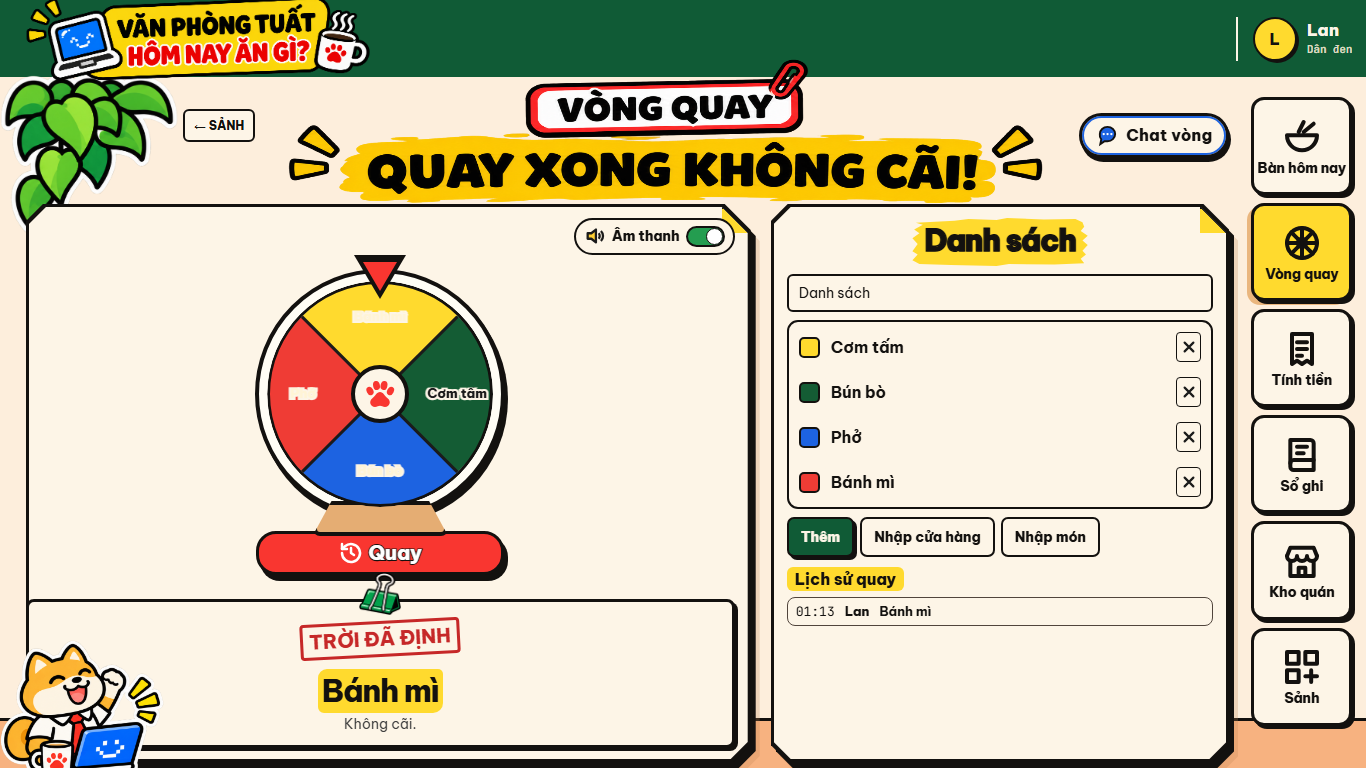
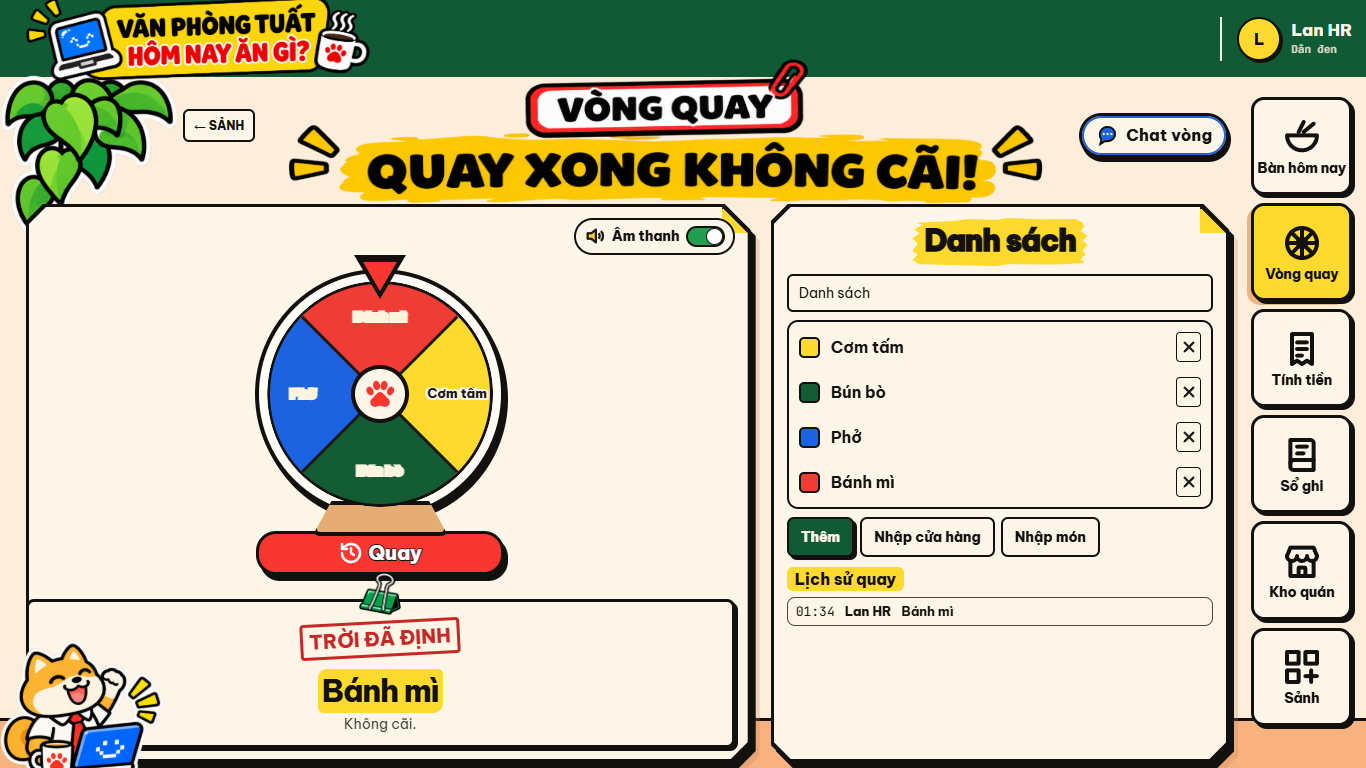
Align wheel colors with labels at the top.

diff --git a/app/tests/unit/wheel-list.test.ts b/app/tests/unit/wheel-list.test.ts
@@ -1,6 +1,7 @@
 import { beforeEach, describe, it } from 'node:test';
 import assert from 'node:assert/strict';
 import { state } from '../../src/client/store.ts';
+import { SHOP_COLORS } from '../../src/client/icons.ts';
 import { renderQuay, resetWheelSpinForTests } from '../../src/client/screens/quay.ts';
 import type { Member, Wheel } from '../../src/shared/types.ts';
 import type { PermKey } from '../../src/shared/perms-catalog.ts';
@@ -44,6 +45,20 @@ function wheel(id: string, kind: Wheel['kind']): Wheel {
   };
 }
 
+function colorAt(gradient: string, deg: number): string {
+  const body = gradient.slice('conic-gradient('.length, -1);
+  const stops = [...body.matchAll(/(#[0-9A-Fa-f]{6}) (\d+(?:\.\d+)?)deg/g)].map((m) => ({
+    color: m[1]!.toUpperCase(),
+    at: Number(m[2]),
+  }));
+  for (let i = 0; i < stops.length; i += 2) {
+    const start = stops[i]!;
+    const end = stops[i + 1]!;
+    if (deg >= start.at && deg < end.at) return start.color;
+  }
+  throw new Error(`không có màu tại ${deg}° trong ${gradient}`);
+}
+
 describe('màn vòng quay', () => {
   beforeEach(() => {
     resetWheelSpinForTests();
@@ -85,6 +100,64 @@ describe('màn vòng quay', () => {
       ),
       false,
     );
+  });
+
+  it('màu ô trùng nhãn: 0° ở đỉnh, không lệch -90deg', () => {
+    const names = ['Cơm tấm', 'Bún bò', 'Phở', 'Bánh mì'];
+    const w = wheel('free', 'free');
+    w.items = names.map((name, i) => ({
+      id: `i${i}`,
+      wheelId: 'free',
+      name,
+      weight: 1,
+      refShopId: null,
+      refMemberId: null,
+      votes: null,
+      sort: i,
+    }));
+    state.wheels = [w];
+    state.ui.wheelId = 'free';
+    const winner = 3;
+    state.spins = [
+      {
+        id: 's1',
+        wheelId: 'free',
+        byMember: 'm',
+        itemsJson: JSON.stringify(names.map(() => ({ weight: 1 }))),
+        resultIndex: winner,
+        resultName: names[winner]!,
+        startedAt: Date.now() - 20_000,
+        durationMs: 1000,
+      },
+    ];
+
+    const html = renderQuay();
+    const bg = /id="wheel-face"[^>]*background:(conic-gradient\([^)]*\));/.exec(html)?.[1];
+    assert.ok(bg);
+    assert.equal(bg.includes('from '), false);
+    const slice = 360 / names.length;
+    const expected = names
+      .map((_, i) => {
+        const color = SHOP_COLORS[i];
+        const start = i * slice;
+        const end = (i + 1) * slice;
+        return `${color} ${start}deg, ${color} ${end}deg`;
+      })
+      .join(', ');
+    assert.equal(bg, `conic-gradient(${expected})`);
+
+    const rays = [...html.matchAll(/--ray-angle:(-?\d+(?:\.\d+)?)deg/g)].map((m) => Number(m[1]));
+    assert.equal(rays.length, names.length);
+    rays.forEach((ray, i) => {
+      const visual = ((ray + 90) % 360 + 360) % 360;
+      assert.equal(visual, i * slice + slice / 2);
+    });
+
+    const angle = Number(/--wheel-angle:(-?\d+(?:\.\d+)?)deg/.exec(html)?.[1]);
+    const atTop = ((360 - (angle % 360)) % 360 + 360) % 360;
+    assert.equal(colorAt(bg, atTop), SHOP_COLORS[winner]);
+    assert.equal(((rays[winner]! + 90) % 360 + 360) % 360, atTop);
+    assert.match(html, new RegExp(`class="hn-wheel-winner">${names[winner]}`));
   });
 
   it('chưa chọn vòng thì mở danh sách tự do', () => {

diff --git a/app/src/client/screens/quay.ts b/app/src/client/screens/quay.ts
@@ -76,7 +76,8 @@ function conic(items: { weight: number }[]): string {
   const stops = segs
     .flatMap((s) => [`${s.color} ${s.start}deg`, `${s.color} ${s.end}deg`])
     .join(', ');
-  return `conic-gradient(from -90deg, ${stops})`;
+  // conic-gradient mặc định 0° ở đỉnh. Không thêm `from`: nhãn đã trừ 90° vì rotate(0) chỉ sang phải.
+  return `conic-gradient(${stops})`;
 }
 
 function landingAngle(resultIndex: number, items: { weight: number }[]): number {
